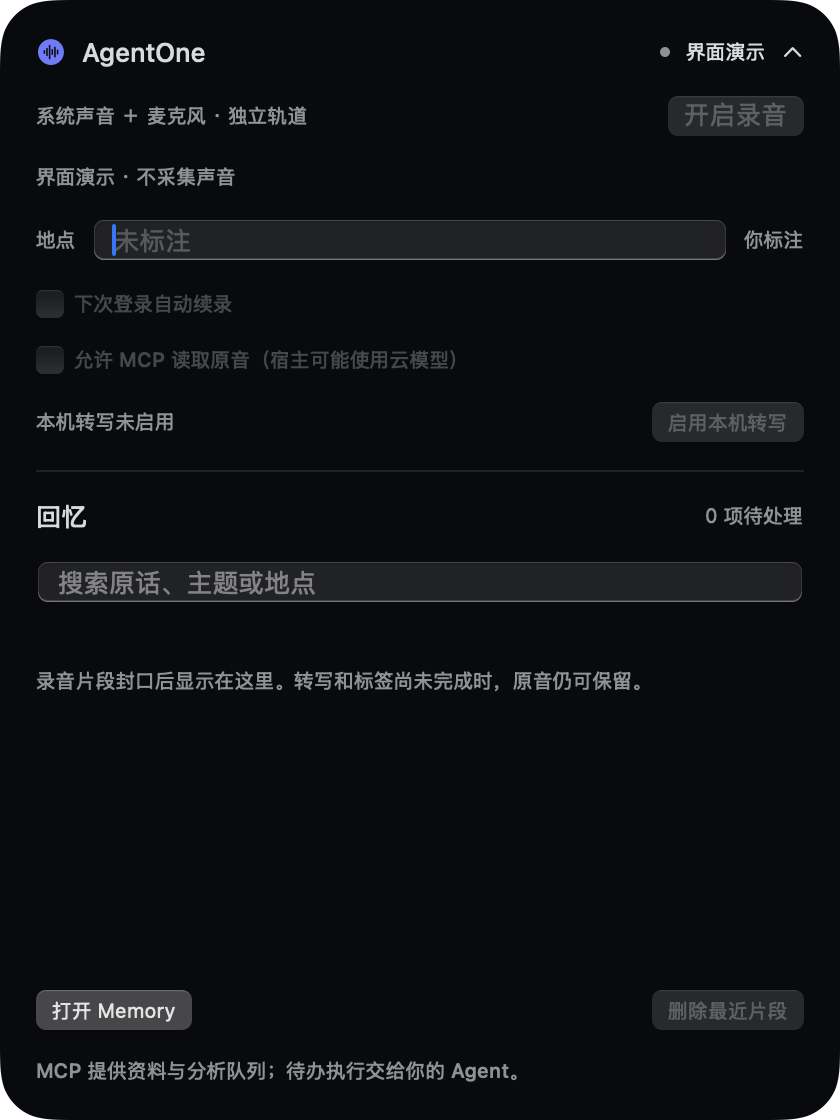
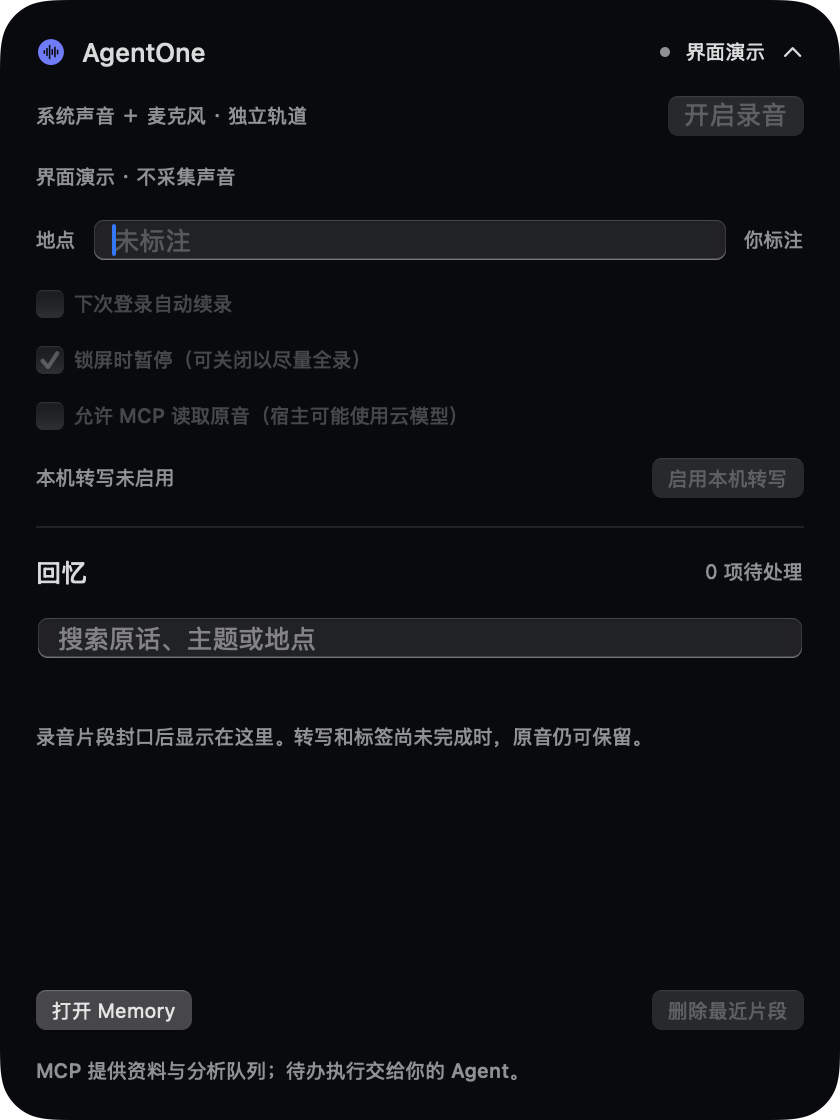
fix: preserve explicit recording controls and fence late capture results

diff --git a/Sources/AgentOneCaptureApp/AgentOneCaptureApp.swift b/Sources/AgentOneCaptureApp/AgentOneCaptureApp.swift
@@ -15,6 +15,7 @@ import SwiftUI
     @Published var message = "点击开启后，才会请求系统音与麦克风权限"
     @Published var place = UserDefaults.standard.string(forKey: "vNext.place") ?? ""
     @Published var autoResume = UserDefaults.standard.bool(forKey: "vNext.autoResume")
+    @Published var pauseOnLock = (UserDefaults.standard.object(forKey: "vNext.pauseOnLock") as? Bool) ?? true
     @Published var query = ""
     @Published var rows: [[String: String]] = []
     @Published var pending = 0
@@ -28,7 +29,7 @@ import SwiftUI
     private var desiredRecording = false
     private var sleeping = false
     private var locked = false
-    private var suspended: Bool { sleeping || locked }
+    private var suspended: Bool { sleeping || (locked && pauseOnLock) }
     private var observers: [NSObjectProtocol] = []
     private var polling: Task<Void,Never>?
 
@@ -60,7 +61,7 @@ import SwiftUI
             Task { @MainActor in await self?.resumeAfterSuspension(reason: "sleep") }
         })
         observers.append(DistributedNotificationCenter.default().addObserver(forName: NSNotification.Name("com.apple.screenIsLocked"), object: nil, queue: .main) { [weak self] _ in
-            Task { @MainActor in self?.locked = true; await self?.stop(reason: "screen_locked") }
+            Task { @MainActor in self?.locked = true; if self?.pauseOnLock == true { await self?.stop(reason: "screen_locked") } }
         })
         observers.append(DistributedNotificationCenter.default().addObserver(forName: NSNotification.Name("com.apple.screenIsUnlocked"), object: nil, queue: .main) { [weak self] _ in
             Task { @MainActor in await self?.resumeAfterSuspension(reason: "screen_locked") }
@@ -83,8 +84,15 @@ import SwiftUI
 
     func toggleRecording() {
         guard !demo, !busy else { return }
-        if recording { desiredRecording = false; UserDefaults.standard.set(false,forKey: "vNext.captureDesired"); Task { await stop(reason: "user_paused") } }
+        if recording { pauseRecording() }
         else { desiredRecording = true; Task { await start(prompts: true) } }
+    }
+
+    func pauseRecording() {
+        guard !demo else { return }
+        desiredRecording = false
+        UserDefaults.standard.set(false,forKey: "vNext.captureDesired")
+        Task { await stop(reason: "user_paused") }
     }
 
     private func start(prompts: Bool) async {
@@ -98,7 +106,7 @@ import SwiftUI
             hasError = false
             UserDefaults.standard.set(true, forKey: "vNext.captureConsent")
             UserDefaults.standard.set(true, forKey: "vNext.captureDesired")
-            message = "两路分别保存 · 锁屏时暂停 · 原音访问需单独开启"
+            message = "两路分别保存 · 原音访问需单独开启"
         } catch { hasError = true; desiredRecording = false; UserDefaults.standard.set(false,forKey: "vNext.captureDesired"); recording = false; message = error.localizedDescription }
     }
 
@@ -115,7 +123,7 @@ import SwiftUI
         desiredRecording = false // Cancel an in-flight permission/start request.
         polling?.cancel()
         await stop(reason: "application_exit")
-        _ = try? database?.execute("UPDATE jobs SET state='pending',lease_token=NULL,lease_until_ms=NULL WHERE state='leased' AND lease_owner='native-local-asr'")
+        worker?.releaseOwnLeases()
     }
 
     private func resumeAfterSuspension(reason: String) async {
@@ -138,6 +146,7 @@ import SwiftUI
         do {
             if value { try SMAppService.mainApp.register() }
             else if SMAppService.mainApp.status != .notRegistered { try SMAppService.mainApp.unregister() }
+            if value && SMAppService.mainApp.status == .requiresApproval { message = "请在系统设置的登录项目中允许 AgentOne，自动续录设置才会生效。" }
         } catch { message = "自动续录偏好已保存；登录启动需在系统设置中确认或使用打包的 App。" }
     }
 
@@ -222,6 +231,7 @@ private struct IslandView: View {
                     Text("你标注").font(.caption2).foregroundStyle(.secondary)
                 }
                 Toggle("下次登录自动续录",isOn: Binding(get: {model.autoResume},set: {model.setAutoResume($0)})).font(.caption).disabled(model.demo)
+                Toggle("锁屏时暂停（可关闭以尽量全录）",isOn: $model.pauseOnLock).font(.caption).disabled(model.demo).onChange(of: model.pauseOnLock) { _,value in UserDefaults.standard.set(value,forKey: "vNext.pauseOnLock") }
                 Toggle("允许 MCP 读取原音（宿主可能使用云模型）",isOn: Binding(get: {model.audioExport},set: {model.setAudioExport($0)})).font(.caption2).disabled(model.demo)
                 HStack {
                     Text(model.asrStatus).font(.caption2).foregroundStyle(.secondary)
@@ -338,7 +348,7 @@ private final class IslandPanel: NSPanel { override var canBecomeKey: Bool { tru
     var body: some Scene {
         MenuBarExtra("AgentOne",systemImage: "waveform.circle") {
             Button("展开灵动岛") { CaptureModel.shared.expanded = true }
-            Button(CaptureModel.shared.recording ? "暂停录音" : "开启双路录音") { CaptureModel.shared.toggleRecording() }
+            Button("暂停录音") { CaptureModel.shared.pauseRecording() }
             Divider()
             Button("退出 AgentOne") { NSApp.terminate(nil) }
         }

diff --git a/Sources/AgentOneCaptureKit/LocalTranscriptionWorker.swift b/Sources/AgentOneCaptureKit/LocalTranscriptionWorker.swift
@@ -15,11 +15,15 @@ public struct AudioUtterance: Codable, Sendable {
     private var running = false
     private var recognitionTask: SFSpeechRecognitionTask?
     private var timeout: Task<Void, Never>?
+    private let ownerID = "native-local-asr:" + UUID().uuidString
     public private(set) var status = "本机转写未启用；MCP 可领取待处理片段"
     public var enabled = false
     public var localeIdentifier = "zh-CN"
 
     public init(database: MemoryDatabase) { self.database = database }
+    public func releaseOwnLeases() {
+        _ = try? database.execute("UPDATE jobs SET state='pending',lease_token=NULL,lease_until_ms=NULL WHERE state='leased' AND lease_owner=?",[ownerID])
+    }
     public func requestAuthorization() async -> Bool {
         let result = await withCheckedContinuation { continuation in
             SFSpeechRecognizer.requestAuthorization { continuation.resume(returning: $0 == .authorized) }
@@ -44,7 +48,7 @@ public struct AudioUtterance: Codable, Sendable {
             job = try database.transaction {
                 let now = MemoryDatabase.now
                 guard let row = try database.rows("SELECT j.*,s.relative_path FROM jobs j JOIN segments s ON s.id=j.segment_id WHERE j.stage='transcribe' AND s.state='sealed' AND j.attempts<3 AND (j.state='pending' OR (j.state='leased' AND j.lease_until_ms<?)) AND (j.attempts=0 OR j.updated_ms<?) ORDER BY j.created_ms LIMIT 1", [now,String(Int64(now)! - 60_000)]).first else { return nil }
-                try database.execute("UPDATE jobs SET state='leased',lease_token=?,lease_owner='native-local-asr',lease_until_ms=?,attempts=attempts+1,updated_ms=? WHERE id=?", [token,String(Int64(now)! + 120_000),now,row["id"]])
+                try database.execute("UPDATE jobs SET state='leased',lease_token=?,lease_owner=?,lease_until_ms=?,attempts=attempts+1,updated_ms=? WHERE id=?", [token,ownerID,String(Int64(now)! + 120_000),now,row["id"]])
                 return row
             }
             guard let job, let id = job["id"], let segmentID = job["segment_id"] else { return }
@@ -52,14 +56,15 @@ public struct AudioUtterance: Codable, Sendable {
             let (text, utterances) = try await transcribe(database.verifiedAudioURL(segmentID), with: recognizer)
             let data = try JSONEncoder().encode(utterances)
             let encoded = String(decoding: data, as: UTF8.self)
-            try database.transaction {
-                guard try database.rows("SELECT j.id FROM jobs j JOIN segments s ON s.id=j.segment_id WHERE j.id=? AND j.lease_token=? AND j.state='leased' AND j.lease_until_ms>? AND s.state='sealed' AND s.sha256=j.source_hash", [id,token,MemoryDatabase.now]).count == 1 else { return }
+            let accepted = try database.transaction {
+                guard try database.rows("SELECT j.id FROM jobs j JOIN segments s ON s.id=j.segment_id WHERE j.id=? AND j.lease_token=? AND j.state='leased' AND j.lease_until_ms>? AND s.state='sealed' AND s.sha256=j.source_hash", [id,token,MemoryDatabase.now]).count == 1 else { return false }
                 let revision = (Int(try database.rows("SELECT COALESCE(MAX(revision),0) AS revision FROM transcripts WHERE segment_id=?", [segmentID]).first?["revision"] ?? "0") ?? 0) + 1
                 try database.execute("INSERT INTO transcripts VALUES (?,?,?,?,?,?,?)", [segmentID,String(revision),text,encoded,text.isEmpty ? "no_speech" : "succeeded","apple-on-device:\(localeIdentifier)",MemoryDatabase.now])
                 try database.execute("UPDATE jobs SET state='succeeded',lease_token=NULL,lease_until_ms=NULL,last_error=NULL,updated_ms=? WHERE id=?", [MemoryDatabase.now,id])
                 try database.execute("INSERT OR IGNORE INTO jobs (id,segment_id,stage,source_hash,input_revision,state,created_ms,updated_ms) VALUES (?,?,'analyze',?,?,'pending',?,?)", [UUID().uuidString,segmentID,job["source_hash"],String(revision),MemoryDatabase.now,MemoryDatabase.now])
+                return true
             }
-            status = "转写已保存；标签等待宿主 Agent 处理"
+            status = accepted ? "转写已保存；标签等待宿主 Agent 处理" : "来源已变更，旧转写结果未写入"
         } catch {
             if let id = job?["id"] {
                 _ = try? database.execute("UPDATE jobs SET state='pending',lease_token=NULL,lease_until_ms=NULL,last_error='local_asr_failed',updated_ms=? WHERE id=? AND lease_token=?", [MemoryDatabase.now,id,token])

diff --git a/Sources/AgentOneCaptureKit/AudioCaptureService.swift b/Sources/AgentOneCaptureKit/AudioCaptureService.swift
@@ -46,6 +46,7 @@ private final class AudioStreamSink: NSObject, SCStreamOutput, SCStreamDelegate,
     func finish() async throws {
         try await withCheckedThrowingContinuation { (continuation: CheckedContinuation<Void, Error>) in
             queue.async {
+                self.failed = true // Late callbacks cannot reopen a sealed track.
                 do { try self.system.finish(); try self.microphone.finish(); continuation.resume() }
                 catch { continuation.resume(throwing: error) }
             }
@@ -106,6 +107,7 @@ private final class AudioStreamSink: NSObject, SCStreamOutput, SCStreamDelegate,
             isRecording = true
             try database.setCaptureState("recording", detail: "system_audio+microphone")
         } catch {
+            isRecording = false
             if let stream { try? await stream.stopCapture() }
             if let sink { try? await sink.finish() }
             stream = nil; sink = nil; releaseLock()

diff --git a/Sources/AgentOneCaptureKit/AudioTrackWriter.swift b/Sources/AgentOneCaptureKit/AudioTrackWriter.swift
@@ -35,7 +35,7 @@ public final class AudioTrackWriter: @unchecked Sendable {
               let asbd = CMAudioFormatDescriptionGetStreamBasicDescription(description),
               let inputFormat = AVAudioFormat(streamDescription: asbd) else { return }
         let frames = CMSampleBufferGetNumSamples(sample)
-        guard frames > 0, frames <= Int(UInt32.max),
+        guard frames > 0, frames <= Int(Int32.max),
               let buffer = AVAudioPCMBuffer(pcmFormat: inputFormat, frameCapacity: AVAudioFrameCount(frames)) else { return }
         buffer.frameLength = AVAudioFrameCount(frames)
         guard CMSampleBufferCopyPCMDataIntoAudioBufferList(sample, at: 0, frameCount: Int32(frames), into: buffer.mutableAudioBufferList) == noErr else {

diff --git a/docs/vnext/STATUS_CAPTURE_MEMORY.md b/docs/vnext/STATUS_CAPTURE_MEMORY.md
@@ -27,8 +27,8 @@
 - `AgentOneCaptureApp`：顶部 NSPanel、状态、手动启停、地点标注、回忆搜索、原音回放、最近片段删除。
 - 首次启动不录音。登录自动续录需另行开启；手动暂停持久保存，不因重启自动取消。
 - 录音获授权后的后续启动默认收起，避免每天展开大窗口。错误有独立状态。
-- 锁屏和休眠分别跟踪；唤醒不能绕过尚未解除的锁屏状态。
-- 退出先停止采集并封口，重复停止请求等待同一次封口，避免提前释放录音锁。
+- 锁屏和休眠分别跟踪；启用锁屏暂停时，唤醒不能绕过仍未解除的锁屏状态。锁屏暂停默认开启，可关闭以尽量持续记录；系统能否继续供流仍需设备实测。
+- 退出先停止采集并封口，重复停止请求等待同一次封口，避免提前释放录音锁；关闭后迟到的回调不能重新打开文件，启动失败会清理录制状态。
 - `AudioCaptureService`：ScreenCaptureKit 双路输出；不注册屏幕画面输出，不保存连续视频。
 - `AudioTrackWriter`：真实 CMSampleBuffer → PCM → AAC，分轨、时间、哈希、格式/断流轮转；未封口尾段标为 incomplete。
 - 文件/数据库使用本机私有权限，不等同于应用级加密。单采集者进程锁防止两个采集进程争用同一目录。
@@ -66,6 +66,8 @@
 - 最终 ZIP：签名严格检查、原生 `--self-check`、版本/权限描述、模块符号无 Pi/ModelAuth、包内真实 MCP 进程启动和工具调用：通过。
 - 原生 App 在独立临时目录的演示态启动、渲染与退出：通过；没有请求录音权限，截图仅来自自身 NSView。
 - actionlint、Bash/Zsh 语法和 `git diff --check`：通过。
+
+首轮云端 CI：[40195106835](https://github.com/agentone666-ship-it/AgentOne/actions/runs/40195106835) 全部成功；对应首个实现提交 `55aee7b`。后续生命周期修正的最终结果以 [PR #2 Checks](https://github.com/agentone666-ship-it/AgentOne/pull/2/checks) 为准。
 
 ### 这些检查不能证明什么
 

diff --git a/README.md b/README.md
@@ -34,7 +34,7 @@ AgentOne v0.2 把电脑上的系统声音和麦克风分别记录在本机，用
 - **静默处理**：固定的本机 ASR worker 处理转写；宿主 Agent 通过带 lease 的 MCP 队列提取标签。宿主离线时排队，不伪装已经分析。
 - **长期记忆可回溯**：宿主可将多段证据巩固为项目摘要、决定、实体线索或未解决事项；保存有效时间、得知时间、引用与替代关系。
 - **近期和旧记录一起可查**：关键词变体、日期、来源、地点提示与跨月查询；缺少时间时不只搜最近数据。
-- **可控的本机采集**：开始/暂停、锁屏/休眠暂停、可选登录续录、手动地点标注、原音回放与最近片段删除。
+- **可控的本机采集**：开始/暂停、可选锁屏暂停、休眠暂停、可选登录续录、手动地点标注、原音回放与最近片段删除。
 
 长期检索当前采用词面匹配和宿主查询扩展，尚未实现 embedding、向量重排、全自动人物识别或跨片段对话合并。原话引用检查不能替代 ASR 与模型质量评估。
 

diff --git a/docs/PRIVACY.md b/docs/PRIVACY.md
@@ -4,7 +4,7 @@
 
 - 首次启动不录音；原生灵动岛明确显示录制、暂停、错误与待处理状态。
 - 只有用户点击“开启录音”后才请求系统音与麦克风权限，两路分别保存。
-- 锁屏和休眠会暂停，唤醒/解锁后仅恢复用户此前希望继续的录制；用户手动暂停有独立持久状态。
+- 休眠会暂停；锁屏默认暂停，可在岛上关闭该选项以尽量持续记录。解除阻止条件后仅恢复用户此前希望继续的录制；用户手动暂停有独立持久状态。
 - 登录启动/续录需用户另行开启并完成系统确认。强制结束进程可能产生不完整尾段，不伪装为完整录音。
 - 不保存连续屏幕视频。ScreenCaptureKit 在这里用于音频输出；界面中的应用信息只是现场线索，不证明发声来源。
 - 周围人的录音告知与办公场景约定需要用户在开始日常记录前处理，产品不提供隐藏录音模式。
